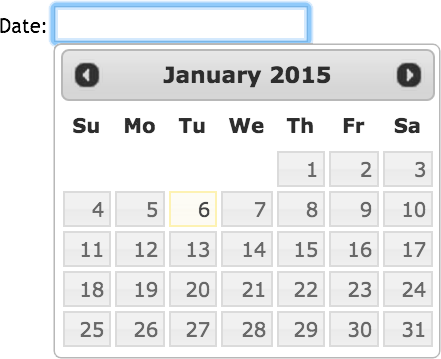
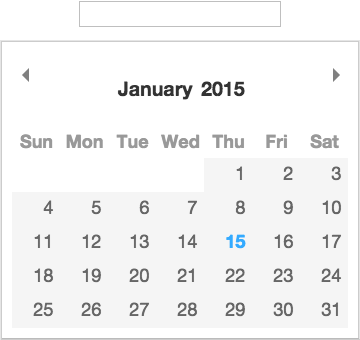
Datepicker example

diff --git a/slides/shadow-dom/index.html b/slides/shadow-dom/index.html
@@ -1,5 +1,6 @@
 <template>
   <section is="twc-slide" href="slides/shadow-dom/title.html"></section>
+  <section is="twc-slide" href="slides/shadow-dom/concept.html"></section>
   <section is="twc-slide" href="slides/shadow-dom/encapsulation.html"></section>
   <section is="twc-slide" href="slides/shadow-dom/world-title.html"></section>
   <section is="twc-slide" href="slides/shadow-dom/world-bootstrap.html"></section>
@@ -10,13 +11,14 @@
   <section is="twc-slide" href="slides/shadow-dom/world-date-picker-5.html"></section>
   <section is="twc-slide" href="slides/shadow-dom/care.html"></section>
   <section is="twc-slide" href="slides/shadow-dom/better-way-1.html"></section>
+  <section is="twc-slide" href="slides/shadow-dom/world-inside-shadow.html"></section>
+  <section is="twc-slide" href="slides/shadow-dom/world-collapsed-view.html"></section>
   <section is="twc-slide" href="slides/shadow-dom/component-title.html"></section>
   <section is="twc-slide" href="slides/shadow-dom/component-intent.html"></section>
   <section is="twc-slide" href="slides/shadow-dom/component-actual.html"></section>
   <section is="twc-slide" href="slides/shadow-dom/component-fix.html"></section>
   <section is="twc-slide" href="slides/shadow-dom/swear.html"></section>
   <section is="twc-slide" href="slides/shadow-dom/better-way-2.html"></section>
-  <section is="twc-slide" href="slides/shadow-dom/create-shadow-root.html"></section>
   <section is="twc-slide" href="slides/shadow-dom/inside-hidden.html"></section>
   <section is="twc-slide" href="slides/shadow-dom/inside-available.html"></section>
   <section is="twc-slide" href="slides/shadow-dom/styling-context.html"></section>

diff --git a/slides/shadow-dom/world-collapsed-view.html b/slides/shadow-dom/world-collapsed-view.html
@@ -1,0 +1,44 @@
+<template>
+  <style>
+    code {
+      font-size: 45px !important;
+    }
+
+    collapsed-datepicker {
+      display: inline-block;
+      vertical-align: middle;
+      transform: scale(1.6, 1.6);
+    }
+
+    img {
+      height: 150px;
+      display: inline-block;
+      vertical-align: middle;
+      margin-left: 150px;
+    }
+
+    h2 {
+      margin-bottom: 100px !important;
+    }
+  </style>
+  <h2>Here's that <em>datepicker</em> on shadow DOM:</h2>
+  <collapsed-datepicker></collapsed-datepicker>
+  <img src="../../res/screen-date-picker-collapsed.png">
+  <script>
+    (function (document) {
+      var el = Object.create(HTMLElement.prototype);
+      el.createdCallback = function () {
+        var shadowRoot = this.createShadowRoot(), style = document.createElement('style'),
+          datePicker = document.createElement('input'), pikaday, container = document.createElement('div');
+        style.innerHTML = '@import "../../bower_components/pikaday/css/pikaday.css";';
+        container.setAttribute('style', 'width: 257px; height: 216px; margin: 0 auto;')
+        shadowRoot.appendChild(style);
+        shadowRoot.appendChild(datePicker);
+        shadowRoot.appendChild(container);
+        pikaday = new Pikaday({field: datePicker, container: container, bound: false});
+        pikaday.show();
+      };
+      document.registerElement('collapsed-datepicker', {prototype: el});
+    }(document.currentScript.ownerDocument));
+  </script>
+</template>

diff --git a/slides/shadow-dom/world-inside-shadow.html b/slides/shadow-dom/world-inside-shadow.html
@@ -1,0 +1,34 @@
+<template>
+  <style>
+    code {
+      font-size: 45px !important;
+    }
+
+    shadow-root-styling {
+      display: block;
+      margin-top: 50px;
+      font-size: 60px;
+    }
+  </style>
+  <h2>Styling does <em>not</em> leak outside shadow DOM</h2>
+  <!--@formatter:off-->
+  <pre><code class="js">
+shadowRoot.innerHTML = '' +
+    '&lt;style&gt;* {color: red !important;}&lt;/style&gt;' +
+    '&lt;span&gt;Only this text is red!&lt;/span&gt;';
+  </code></pre>
+  <!--@formatter:on-->
+  <shadow-root-styling></shadow-root-styling>
+  <script>
+    (function (document) {
+      var el = Object.create(HTMLElement.prototype);
+      el.createdCallback = function () {
+        var shadowRoot = this.createShadowRoot();
+        shadowRoot.innerHTML = '' +
+        '<style>* {color: red !important;}</style>' +
+        '<span>Only this text is red!</span>';
+      };
+      document.registerElement('shadow-root-styling', {prototype: el});
+    }(document.currentScript.ownerDocument));
+  </script>
+</template>

diff --git a/index.html b/index.html
@@ -4,10 +4,11 @@
 <head>
   <meta charset="utf-8">
 
-  <title>reveal.js - The HTML Presentation Framework</title>
+  <title>Web Components: the (near) Future of Web Development</title>
 
-  <meta name="description" content="A framework for easily creating beautiful presentations using HTML">
-  <meta name="author" content="Hakim El Hattab">
+  <meta name="description" content="Introduction to Web Components">
+  <meta name="author" content="Nikas Praninskas">
+  <link rel="icon" type="image/png" href="res/logo-wc-mono.png">
 
   <meta name="apple-mobile-web-app-capable" content="yes"/>
   <meta name="apple-mobile-web-app-status-bar-style" content="black-translucent"/>
@@ -59,6 +60,7 @@
       document.currentScript.parentNode.host.setAttribute('data-background', colors[key] || key);
     }
   </script>
+  <script src="bower_components/pikaday/pikaday.js"></script>
 
   <!-- Any section element inside of this container is displayed as a slide -->
   <div class="slides">

diff --git a/slides/shadow-dom/concept.html b/slides/shadow-dom/concept.html
@@ -1,0 +1,29 @@
+<template>
+  <style>
+    div {
+      text-align: end;
+      width: 1300px;
+      display: inline-block;
+    }
+
+    h2 {
+      font-size: 90px !important;
+      font-family: 'Roboto', serif !important;
+    }
+
+    code {
+      margin-top: 100px !important;
+    }
+  </style>
+  <div>
+    <h2>a way to <em>separate</em></h2>
+
+    <h2>the innards of components</h2>
+
+    <h2>from the global document</h2>
+  </div>
+
+  <!--@formatter:off-->
+  <pre><code class="js">var shadowRoot = element.createShadowRoot();</code></pre>
+  <!--@formatter:on-->
+</template>
